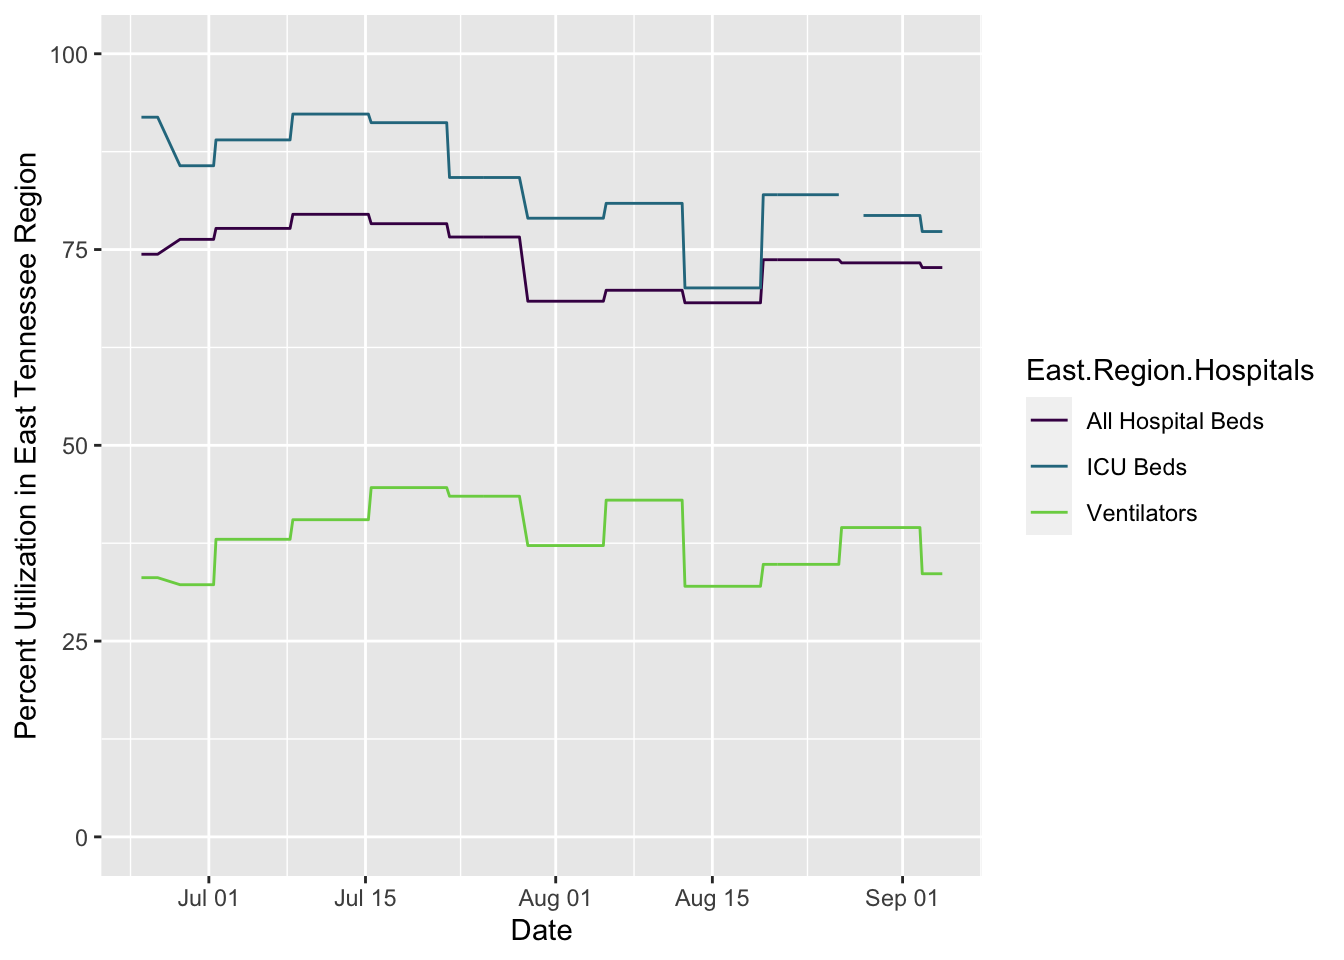
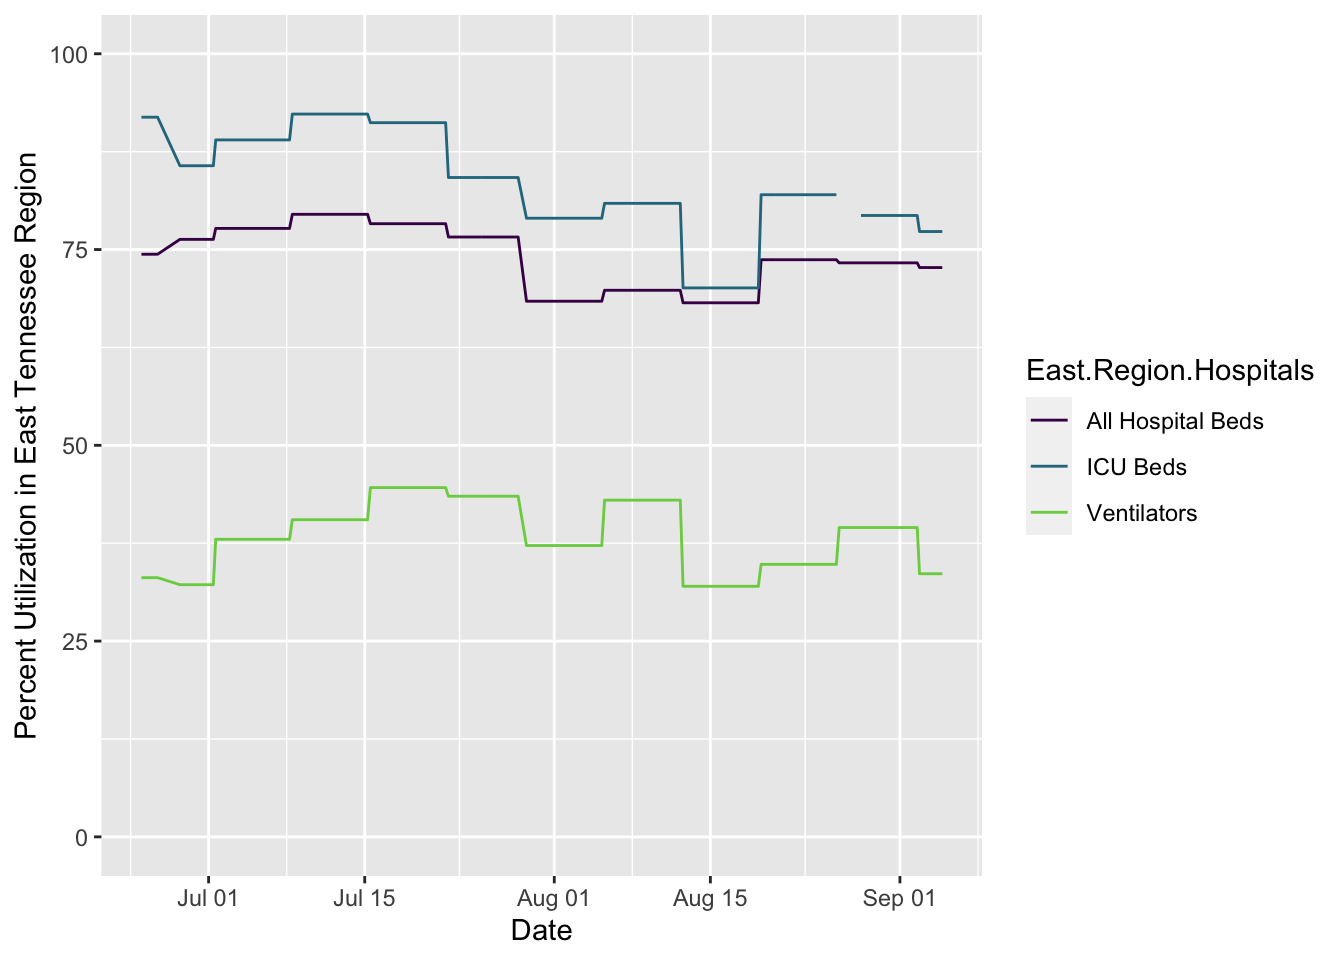
updating site

diff --git a/docs/covid.html b/docs/covid.html
@@ -424,7 +424,7 @@ $(document).ready(function () {
 <li>Info about cases at <a href="#ut">U. of Tennessee, Knoxville</a> (using public information only)</li>
 <li><a href="#webcams">Webcams</a> showing activity at local sites, though not quite at the resolution to point to mask usage or not</li>
 </ul>
-<p>The following plots are created in R using data from <a href="https://covid19datahub.io" class="uri">https://covid19datahub.io</a> (Guidotti, E., Ardia, D., (2020), “COVID-19 Data Hub”, Working paper, doi: 10.13140/RG.2.2.11649.81763), as well as information from Google and the <a href="https://www.tn.gov/health/cedep/ncov/data/downloadable-datasets.html">state of Tennessee dataset page</a> and plotting and analysis using the <code>forecast</code>, <code>ggplot2</code>, <code>reshape2</code>, and <code>dplyr</code> packages. Plots created on 2020-09-04 17:50:05. I use <code>ggplot2</code>’s <code>geom_smooth()</code> function for the smoothed regression plots with its default formula, which uses loess smoothing for this many points. This is not based on a model of disease spread or anything similarly sophisticated, just drawing a smooth curve to summarize noisy points (see <a href="https://www.itl.nist.gov/div898/handbook/pmd/section1/pmd144.htm">here</a> for more details).</p>
+<p>The following plots are created in R using data from <a href="https://covid19datahub.io" class="uri">https://covid19datahub.io</a> (Guidotti, E., Ardia, D., (2020), “COVID-19 Data Hub”, Working paper, doi: 10.13140/RG.2.2.11649.81763), as well as information from Google and the <a href="https://www.tn.gov/health/cedep/ncov/data/downloadable-datasets.html">state of Tennessee dataset page</a> and plotting and analysis using the <code>forecast</code>, <code>ggplot2</code>, <code>reshape2</code>, and <code>dplyr</code> packages. Plots created on 2020-09-05 11:26:11. I use <code>ggplot2</code>’s <code>geom_smooth()</code> function for the smoothed regression plots with its default formula, which uses loess smoothing for this many points. This is not based on a model of disease spread or anything similarly sophisticated, just drawing a smooth curve to summarize noisy points (see <a href="https://www.itl.nist.gov/div898/handbook/pmd/section1/pmd144.htm">here</a> for more details).</p>
 <h2 id="cases">
 Cases
 </h2>
@@ -460,7 +460,7 @@ Schooling
 <h2 id="hospitalization">
 Hospitalization
 </h2>
-<p>As of the last time the data were updated (likely 2 days ago), regional hospitals had 63 ICU beds available of 278 total, and 162 available ventilators out of 244 total. This is based on 19 acute care hospitals in the East TN region; based on the 14 counties these hospitals are in, these serve at least 1,235,720 people. When a line hits 100%, the local hospitals are theoretically full for that resource (for all patients, not just covid patients), though there is surge capacity on top of this. Note that these data are updated only weekly, so current conditions maybe be much better or worse than these plots show. Data on capacity from Knox County’s dashboard, data on hospitalizations and testing over time from the state data.</p>
+<p>As of the last time the data were updated (likely 3 days ago), regional hospitals had 63 ICU beds available of 278 total, and 162 available ventilators out of 244 total. This is based on 19 acute care hospitals in the East TN region; based on the 14 counties these hospitals are in, these serve at least 1,235,720 people. When a line hits 100%, the local hospitals are theoretically full for that resource (for all patients, not just covid patients), though there is surge capacity on top of this. Note that these data are updated only weekly, so current conditions maybe be much better or worse than these plots show. Data on capacity from Knox County’s dashboard, data on hospitalizations and testing over time from the state data.</p>
 <p><img src="covid_files/figure-html/hospitalcapacityplot-1.png" width="672" /></p>
 <p>Trends in hospitalization of covid patients over time. The vertical dotted line shows the last day with updated capacity information, when there were 63 ICU beds available (ignoring surge capacity) for people in the East Tennessee region.</p>
 <p><img src="covid_files/figure-html/plotsD-1.png" width="672" /></p>
